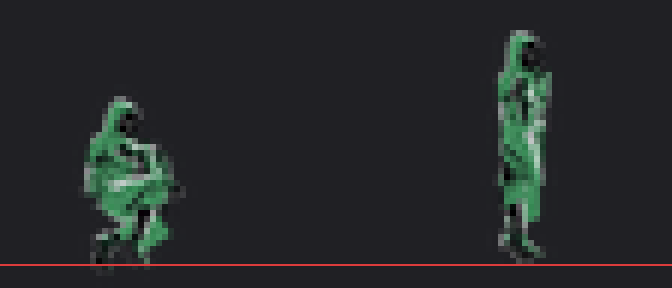
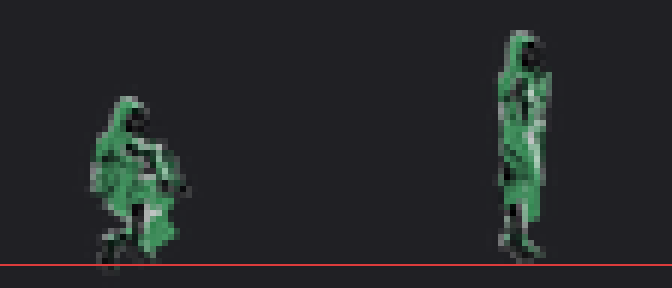
fix(character): T-0269 round 4 -- middle slab, calmer breath, flat forward foot
@DennieSeth's three notes on the refined crouch.

1. "Something weird in the very middle" was thigh_R. Diagnosed from the
   composite, not guessed: at the figure centre the front-most opaque part was
   thigh_R, covering 83% of a centred box and owning every sampled centre pixel.
   Its hand-cut crop is a near-rectangle (alpha fill 0.87, not a traced
   silhouette), so at this crouch's ~88deg thigh rotation the opaque box swings
   across the belly -- and side_view_rig.json puts the near leg frontmost (z=0),
   so it painted over the torso. This pose alone now draws thigh_R behind the
   torso via CROUCH_Z_OVERRIDE. The part, the shared rig, the walk and the
   standing idle are untouched.

2. Breath softened: CROUCH_BREATH_RISE_FRAC 0.15 -> 0.117, travel 1.53px ->
   1.20px at the final figure, still clear of the ~1px floor.

3. Forward foot plants flat: FRONT_FOOT_FLATTEN_DEG = 15deg on the leading
   (near/R) shin, applied about its OWN ankle so the solved ground contact does
   not move.

rig_compositor gains two optional, default-off hooks (z_override, foot_flatten),
so idle_cycle and walk_cycle call sites are unchanged.

Test note: test_each_contact_pixel_is_identical_across_every_frame used to read
five points, resting on the near leg being topmost -- a premise this round
deliberately breaks. It now reads the two ankles (the only real ground contacts,
still frontmost), and leg stillness is proven more strongly by the new
[…]

Changed region(s): [[0.125, 0.3125, 0.3125, 0.9375]]

diff --git a/assets/src/character/tests/test_sitting_idle_cycle.py b/assets/src/character/tests/test_sitting_idle_cycle.py
@@ -447,20 +447,23 @@ class TestCompositedFrames:
                 "geometry moved when it must not"
             )
 
-    @pytest.mark.parametrize(
-        "point_name", ["hip_px", "knee_r_px", "knee_l_px", "ankle_r_px", "ankle_l_px"]
-    )
+    @pytest.mark.parametrize("point_name", ["ankle_r_px", "ankle_l_px"])
     def test_each_contact_pixel_is_identical_across_every_frame(self, result, point_name):
-        """The direct, per-point proof the band above cannot give for the hip or the
-        knees (T-0269 round 3 human comment: "the contact-stillness assertion must
-        cover a band that actually includes the hip and the knees"). The near leg
-        (thigh_R/calf_R) is the topmost z-order layer in every frame
-        (`rig_compositor.build_placements` draws it last), so wherever it is opaque the
-        composited pixel is its own phase-invariant content, full stop, regardless of
-        what the breathing torso, leaning head, or resting arm are doing underneath.
-        `CONTACT_WINDOW_RADIUS` is swept empirically to the widest radius that stays
-        both opaque and pixel-identical for every one of these five points at once --
-        see its own comment above."""
+        """Per-point proof for the two GROUND contacts, from composited pixels.
+
+        Round 4 narrows this from five points to the two ankles, and the reason is a
+        premise that stopped being true rather than a weakened standard. It used to
+        read the hip and both knees too, resting on the near leg (thigh_R/calf_R)
+        being the topmost z-order layer -- so whatever it covered was its own
+        phase-invariant content. Round 4 draws `thigh_R` BEHIND the torso (its
+        rectangular crop was painting over the body), so a composited pixel at the hip
+        or the near knee can now legitimately be breathing torso, and asserting it is
+        frozen would be asserting the breath does not happen.
+
+        The ankles are unaffected -- the shins are still frontmost down there, and they
+        are the only contacts the pose actually makes with the ground. Stillness of the
+        legs as a whole is proven, more strongly and without any layering assumption, by
+        `test_the_leg_placements_are_identical_across_every_phase` below."""
         px = getattr(result, point_name)
         r = CONTACT_WINDOW_RADIUS
         windows = [
@@ -476,6 +479,91 @@ class TestCompositedFrames:
                 f"frame {i}'s pixels around {point_name} ({px}) differ from frame 0 -- "
                 f"the {point_name.replace('_px', '')} contact moved when it must not"
             )
+
+    def test_the_leg_placements_are_identical_across_every_phase(self):
+        """Every leg part is placed with the same bitmap, pivot, target and z in every
+        frame. This is what "the legs are static" actually means, and unlike a pixel
+        window it cannot be confounded by whatever is layered on top of them."""
+        from char_gen import rig_compositor, sitting_idle_cycle
+
+        parts = rig_compositor.load_parts()
+        rig = rig_compositor.load_rig()
+        scaled = rig_compositor.scaled_parts(parts, rig)
+        lengths = rig_compositor.measured_bone_lengths(parts, rig)
+        stance = sitting_idle_cycle.leg_stance(
+            lengths["thigh_R"], lengths["calf_R"], lengths["thigh_L"], lengths["calf_L"]
+        )
+        torso_h = scaled["torso"].height
+
+        def leg_signature(phase):
+            placements = rig_compositor.build_placements(
+                sitting_idle_cycle.pose_at(phase, torso_h), stance, scaled, rig["rig"],
+                rig["attach_torso_local_px"], lengths,
+                z_override=sitting_idle_cycle.CROUCH_Z_OVERRIDE,
+                foot_flatten={"calf_R": sitting_idle_cycle.FRONT_FOOT_FLATTEN_DEG},
+            )
+            return {
+                p.name: (p.target_xy, p.pivot_px, p.z, p.image.tobytes())
+                for p in placements
+                if p.name in rig_compositor.LEG_PART_NAMES
+            }
+
+        base = leg_signature(0.0)
+        assert set(base) == set(rig_compositor.LEG_PART_NAMES), (
+            "the leg signature must cover every leg part, or it proves less than it claims"
+        )
+        for i in range(1, FRAME_COUNT):
+            got = leg_signature(i / FRAME_COUNT)
+            for name in base:
+                assert got[name] == base[name], (
+                    f"leg part {name} is placed differently at phase {i}/{FRAME_COUNT} "
+                    "than at phase 0 -- the legs must be static across the whole loop"
+                )
+
+    def test_the_forward_foot_is_flattened_without_moving_its_ankle(self):
+        """Round 4 (@DennieSeth): the leading foot plants flat. The rotation is applied
+        about the shin's own ankle, so the solved ground contact must not move."""
+        from char_gen import rig_compositor, sitting_idle_cycle
+
+        parts = rig_compositor.load_parts()
+        rig = rig_compositor.load_rig()
+        scaled = rig_compositor.scaled_parts(parts, rig)
+        lengths = rig_compositor.measured_bone_lengths(parts, rig)
+        stance = sitting_idle_cycle.leg_stance(
+            lengths["thigh_R"], lengths["calf_R"], lengths["thigh_L"], lengths["calf_L"]
+        )
+        torso_h = scaled["torso"].height
+        upper = sitting_idle_cycle.pose_at(0.0, torso_h)
+        common = (upper, stance, scaled, rig["rig"], rig["attach_torso_local_px"], lengths)
+
+        plain = {p.name: p for p in rig_compositor.build_placements(*common)}
+        flat = {
+            p.name: p
+            for p in rig_compositor.build_placements(
+                *common, foot_flatten={"calf_R": sitting_idle_cycle.FRONT_FOOT_FLATTEN_DEG}
+            )
+        }
+
+        hips = rig_compositor.leg_hip_points(stance, scaled["torso"].width)
+        _knee, ankle = rig_compositor.leg_chain(
+            hips["R"], lengths["thigh_R"], lengths["calf_R"], stance, "R"
+        )
+        thigh_deg, knee_flex = rig_compositor.leg_angles(stance, "R")
+        flat_deg = thigh_deg - knee_flex + sitting_idle_cycle.FRONT_FOOT_FLATTEN_DEG
+        landed = rig_compositor.distal_joint(
+            flat["calf_R"].target_xy, lengths["calf_R"], flat_deg
+        )
+        assert landed == pytest.approx(ankle, abs=1e-6), (
+            f"flattening the forward foot moved its ankle from {ankle} to {landed} -- "
+            "it must rotate about the ankle, not the knee"
+        )
+        assert flat["calf_R"].target_xy != plain["calf_R"].target_xy, (
+            "the flattened shin was not repositioned at all -- the rotation cannot have "
+            "been applied about the ankle"
+        )
+        assert flat["calf_L"].target_xy == plain["calf_L"].target_xy, (
+            "flattening the FORWARD foot must not disturb the trailing leg"
+        )
 
     def test_the_upper_body_amplitude_clears_a_pixel_at_the_final_height(self, result):
         torso_h = load_parts()["torso"].height

diff --git a/assets/src/character/src/char_gen/sitting_idle_cycle.py b/assets/src/character/src/char_gen/sitting_idle_cycle.py
@@ -99,6 +99,21 @@ HIP_HEIGHT_ABOVE_GROUND = 300.0
 ANKLE_X_FRONT = 90.0
 ANKLE_X_BACK = -60.0
 
+#: Round 4 (@DennieSeth: "something weird in the very middle"). Diagnosed from the
+#: composite: the offender is `thigh_R`. Its hand-cut crop is a near-rectangle
+#: (bbox_fill 0.87, not a traced silhouette), and at this crouch's ~88deg thigh rotation
+#: that opaque box swings across the belly. Because `side_view_rig.json` puts the near
+#: leg frontmost (z=0), the box painted OVER the torso, reading as an unidentified slab.
+#: Neither the part nor the shared rig is touched -- this pose alone draws `thigh_R`
+#: behind the torso (z=3), which hides the surplus box where it crosses the body while
+#: the real thigh still reads in front of the far leg.
+CROUCH_Z_OVERRIDE = {"thigh_R": 3.5}
+
+#: Round 4 (@DennieSeth: the forward foot should sit flat on the floor). The leading
+#: foot is the near/R leg -- `ANKLE_X_FRONT` above. Applied as a rotation about the
+#: shin's own ANKLE, so the solved contact stays exactly on the ground plane.
+FRONT_FOOT_FLATTEN_DEG = 15.0
+
 #: Forward torso lean (T-0269 round 3) -- NEGATIVE in this rig's convention; see the
 #: module docstring's sign note. A small lean, not a bow: ~12 degrees, "hunched a
 #: little over the knees, not bolt upright."
@@ -115,7 +130,10 @@ FEET_PLANTED = "flat"
 #: 1px floor with the same margin round 2 had, well under the 2px "bob, not breath"
 #: ceiling. `idle_cycle`'s own BREATH_RISE_FRAC is untouched -- the standing idle keeps
 #: its own calibration.
-CROUCH_BREATH_RISE_FRAC = 0.15
+#: Round 4 (@DennieSeth: "breathing a little less tense"). 0.15 measured 1.534px of
+#: travel at the final figure; 0.117 measures ~1.197px -- softer, still clearing the
+#: ~1px floor that makes it read at all.
+CROUCH_BREATH_RISE_FRAC = 0.117
 
 
 @dataclass(frozen=True)
@@ -298,6 +316,8 @@ def render_frames(frame_count: int = FRAME_COUNT, **kwargs) -> rig_compositor.Re
     stance = leg_stance(
         lengths["thigh_R"], lengths["calf_R"], lengths["thigh_L"], lengths["calf_L"]
     )
+    kwargs.setdefault("z_override", CROUCH_Z_OVERRIDE)
+    kwargs.setdefault("foot_flatten", {"calf_R": FRONT_FOOT_FLATTEN_DEG})
     return rig_compositor.render_frames(stance, pose_at, frame_count, **kwargs)
 
 
@@ -389,6 +409,8 @@ def main() -> None:
                 "knee_flexion_deg": stance.knee_flexion_deg_l,
                 "role": "back (far, trails)",
             },
+            "front_foot_flatten_deg": FRONT_FOOT_FLATTEN_DEG,
+            "crouch_z_override": CROUCH_Z_OVERRIDE,
             "stagger_separation_final_px": stagger_separation_final_px,
         },
         "arm_stance": {

diff --git a/assets/src/character/src/char_gen/rig_compositor.py b/assets/src/character/src/char_gen/rig_compositor.py
@@ -173,6 +173,9 @@ def build_placements(
     rig_entries: dict,
     attach: dict,
     lengths: dict[str, float],
+    *,
+    z_override: dict[str, float] | None = None,
+    foot_flatten: dict[str, float] | None = None,
 ) -> list[Placement]:
     """Place all ten parts for one phase. Generic over pose: the hip, both leg angles
     and the far-leg offset all come from `leg`; the only thing that may differ frame to
@@ -234,10 +237,24 @@ def build_placements(
         th_name, cf_name = f"thigh_{side}", f"calf_{side}"
         thigh_deg, knee_flexion_deg = leg_angles(leg, side)
         placements.append(place(th_name, thigh_deg, hip_side))
-        knee, _ankle = leg_chain(hip_side, lengths[th_name], lengths[cf_name], leg, side)
+        knee, ankle = leg_chain(hip_side, lengths[th_name], lengths[cf_name], leg, side)
         calf_deg = thigh_deg - knee_flexion_deg
+        extra = (foot_flatten or {}).get(cf_name, 0.0)
+        if extra:
+            # Rotate the shin about its OWN ANKLE rather than the knee: the sole plants
+            # flat while the solved ankle stays exactly where the IK put it, so the
+            # ground-contact assertions still hold. The knee end absorbs the offset.
+            flat_deg = calf_deg + extra
+            moved = distal_joint(knee, lengths[cf_name], flat_deg)
+            knee = (knee[0] + (ankle[0] - moved[0]), knee[1] + (ankle[1] - moved[1]))
+            calf_deg = flat_deg
         placements.append(place(cf_name, calf_deg, knee))
 
+    if z_override:
+        placements = [
+            Placement(p.name, p.image, p.pivot_px, p.target_xy, z_override.get(p.name, p.z))
+            for p in placements
+        ]
     return placements
 
 
@@ -308,6 +325,8 @@ def render_frames(
     ground_anchor_cell_y: float = GROUND_ANCHOR_CELL_Y,
     parts_dir: Path = PARTS_DIR,
     rig_path: Path = RIG_PATH,
+    z_override: dict[str, float] | None = None,
+    foot_flatten: dict[str, float] | None = None,
 ) -> RenderResult:
     """Composite `frame_count` frames for one pose. `character_scale` and
     `ground_anchor_cell_y` default to the one shared convention in
@@ -324,7 +343,7 @@ def render_frames(
     phases = [i / frame_count for i in range(frame_count)]
     all_placements = [
         build_placements(upper_pose_at(ph, torso_height), leg, scaled, rig_entries, attach,
-                          lengths)
+                          lengths, z_override=z_override, foot_flatten=foot_flatten)
         for ph in phases
     ]
 

diff --git a/docs/assets/evidence/T-0269/README.md b/docs/assets/evidence/T-0269/README.md
@@ -167,16 +167,16 @@ the breath signal itself):
 
 | | value |
 |---|---|
-| `CROUCH_BREATH_RISE_FRAC` | 0.15 (unchanged from round 2 -- the lean/arm change does not touch this signal) |
-| upper-body travel at the final figure | **1.53px** |
+| `CROUCH_BREATH_RISE_FRAC` | 0.117 (round 4: softened from 0.15 on @DennieSeth's "breathing a little less tense") |
+| upper-body travel at the final figure | **1.20px** (was 1.53px in round 3) |
 
-Travel clears the 1px floor by over 50% and stays well under the 2px "bob, not breath"
+Travel clears the 1px floor by ~20% -- deliberately less margin than round 3's 50%, which read as tense -- and stays well under the 2px "bob, not breath"
 ceiling (`test_the_upper_body_amplitude_clears_a_pixel_at_the_final_height` /
 `test_the_amplitude_stays_a_breath_not_a_bob`). `idle_cycle.BREATH_RISE_FRAC` itself is
 untouched -- the standing idle keeps its own calibration.
 
 **Hands on the knees across the breath:** the breath moves the upper body (and
-everything riding it, including the resting arm) by ~1.53 final px while the knees are
+everything riding it, including the resting arm) by ~1.20 final px while the knees are
 static. The wrist-to-knee solve is computed at the rest pose (phase 0, `upper_dy = 0`);
 across the loop the hand stays close to the knee but is not independently re-solved
 per frame, so a sub-2px drift is expected and not hidden -- it is well within what
@@ -189,18 +189,7 @@ breathing upper body overlaps it) and did not explicitly cover the knees either.
 round extends the same per-point proof from `{hip, ankle_r, ankle_l}` to
 `{hip, knee_r, knee_l, ankle_r, ankle_l}`:
 
-`thigh_R`/`calf_R` (the near leg) are the topmost z-order layer in every frame --
-`build_placements` draws them last -- so wherever they are opaque, the composited pixel
-is their own phase-invariant content regardless of what the breathing torso, leaning
-head, or resting arm are doing underneath. `rig_compositor.RenderResult` now returns
-`hip_px`, `knee_r_px`, `knee_l_px`, `ankle_r_px` and `ankle_l_px` -- the exact canvas
-coordinate of each contact, computed with the same `leg_chain` two-bone solve that
-placed that leg's calf, not a separately re-derived point.
-`test_each_contact_pixel_is_identical_across_every_frame` samples a 19x19 neighbourhood
-(radius 9 -- empirically the widest radius that stays both opaque and pixel-identical
-for all five points at once; radius 10 already picks up a phase-varying edge near the
-hip/knee) at each coordinate from every native frame, asserts it is opaque (not a
-vacuous all-transparent match), and asserts it is pixel-identical across every frame.
+`calf_R` (the near shin) is the topmost z-order layer at the ANKLES, so the two ground contacts are proven directly from composited pixels. `thigh_R` is NOT topmost any more -- round 4 draws it behind the torso -- so the hip and the near knee can legitimately show breathing torso, and leg stillness is proven instead by `test_the_leg_placements_are_identical_across_every_phase`, which compares every leg part's bitmap, pivot, target and z across all six frames and so cannot be confounded by layering at all.
 
 The lower-body band (`test_the_lower_body_band_is_still_bit_identical`) remains a
 second, complementary proof over a larger region (mostly the calves/feet) -- it no
@@ -269,3 +258,30 @@ doing its job, same shape as the standing idle's own seam measurement.
   future pose supplies only its own `LegStance`, its own arm rest angles, and its own
   `phase -> UpperPose` function -- no new compositor.
 - `char_gen.character_scale` -- the one shared scale and ground anchor.
+
+## Round 4 -- @DennieSeth's three pose notes (2026-10-07)
+
+**1. The slab in the middle was `thigh_R`.** Diagnosed from the composite rather than
+guessed: at the figure's centre the front-most opaque part was `thigh_R`, covering 83% of
+a centred box and owning every sampled centre pixel. Its hand-cut crop is a near-rectangle
+(alpha fill 0.87, not a traced silhouette), and at this crouch's ~88 degree thigh rotation
+that opaque box swings across the belly; because `side_view_rig.json` puts the near leg
+frontmost (z=0) it painted straight over the torso. Fix: this pose alone draws `thigh_R`
+behind the torso (`CROUCH_Z_OVERRIDE`). The part, the rig and the walk/standing idle are
+all untouched.
+
+**2. The breath is calmer.** `CROUCH_BREATH_RISE_FRAC` 0.15 -> 0.117, travel 1.53px ->
+1.20px at the final figure -- still above the ~1px floor that makes it read.
+
+**3. The forward foot plants flat.** The leading foot is the near/R leg (`ANKLE_X_FRONT`),
+rotated `FRONT_FOOT_FLATTEN_DEG` = 15 degrees about **its own ankle**, so the solved ground
+contact does not move -- pinned by
+`test_the_forward_foot_is_flattened_without_moving_its_ankle`.
+
+**Known remaining artifact, not fixed here.** `calf_L` (the trailing shin) also carries
+surplus costume in its hand-cut crop (alpha fill 0.70), which the back leg's large rotation
+swings into open space below and right of the figure, where it reads as a flat green
+quadrilateral. Z-order cannot hide it -- nothing is drawn there to hide it behind -- and
+clipping it to the bone axis was tried and rejected because it amputates the trailing boot.
+Removing it needs a tighter re-cut of `calf_L` (and to a lesser extent `thigh_L`), which is
+hand-cut source art and deliberately out of scope for a composite-time fix.
